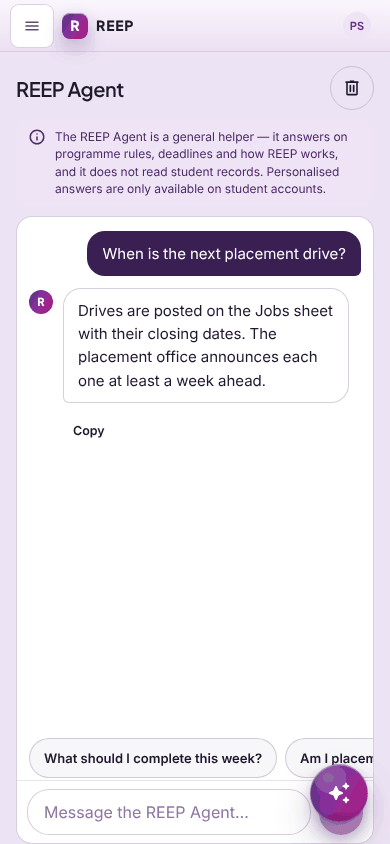
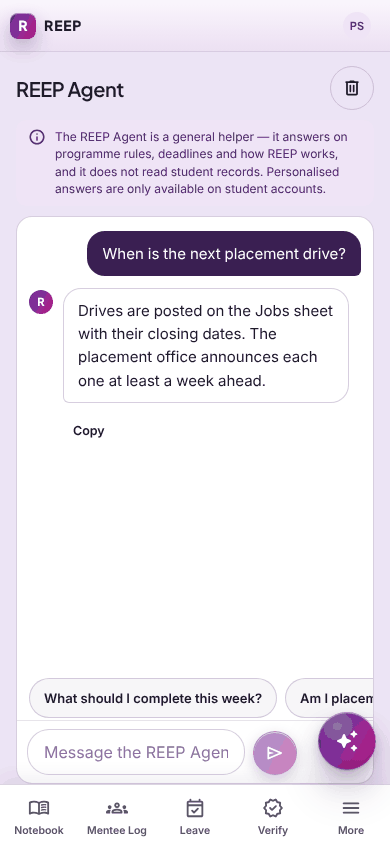
fix(mentor, agent): fit the phone layouts to the real shell
The shell's .desktop-main reserves the tab bar and the orb in its own bottom
padding, and a sticky offset is measured from inside that padding, so the
pinned action bars sit 8px above it rather than adding the tab bar height a
second time. The agent page subtracts --appbar-offset (which carries the
top safe area), and its round Send button moves out from under the orb.
Screenshots retaken against the merged shell.

Claude-Session: https://claude.ai/code/session_016q7FfoCkXSZevZLmdkNsws

Changed region(s): [[0.0, 0.8009, 1.0, 1.0], [0.0308, 0.0, 0.3385, 0.0616]]

diff --git a/apps/web/src/app/shared/agent-chat/agent-chat.component.scss b/apps/web/src/app/shared/agent-chat/agent-chat.component.scss
@@ -603,6 +603,18 @@
   .ag-send:active:not(:disabled) {
     transform: scale(0.94);
   }
+  /* On the page, the shell's floating agent orb is fixed over the right end
+     of the composer; Send moves out from under it. Not in the dock (the dock
+     covers the orb) and not while the keyboard is up (the orb is fixed to the
+     layout viewport, so it is behind the keyboard then). */
+  .ag-composer textarea::placeholder {
+    white-space: nowrap;
+    overflow: hidden;
+    text-overflow: ellipsis;
+  }
+  :host:not(.is-dock):not(.kb-open) .ag-composer {
+    padding-right: 76px;
+  }
 }
 
 /* "Enter to send" is not true where Enter is a new line (agent-chat.component

diff --git a/apps/web/src/app/features/agent/agent.component.scss b/apps/web/src/app/features/agent/agent.component.scss
@@ -178,8 +178,8 @@
 @media (max-width: 899px) {
   .agent {
     --ag-bottom: max(var(--mobile-tabbar-h, 0px), var(--kb-inset, 0px));
-    height: calc(100vh - var(--appbar-height, 52px) - var(--ag-bottom) - 14px);
-    height: calc(100dvh - var(--appbar-height, 52px) - var(--ag-bottom) - 14px);
+    height: calc(100vh - var(--appbar-offset, 52px) - var(--ag-bottom) - 14px);
+    height: calc(100dvh - var(--appbar-offset, 52px) - var(--ag-bottom) - 14px);
     min-height: 320px;
   }
   /* The crumb repeats the heading under it. */

diff --git a/apps/web/src/app/features/mentor/leave/leave.component.scss b/apps/web/src/app/features/mentor/leave/leave.component.scss
@@ -331,7 +331,9 @@
      form is on screen. Discard and the hint stay in the bar, smaller. */
   .form-actions--compose {
     position: sticky;
-    bottom: calc(var(--mobile-tabbar-h, 0px) + 8px);
+    /* 8px above the scroll area's bottom padding, which the shell sizes to
+       clear the tab bar and the agent orb — sticky offsets start there. */
+    bottom: 8px;
     z-index: 3;
     display: grid;
     grid-template-columns: 1fr 1fr;

diff --git a/apps/web/src/app/features/mentor/mentee-log/mentee-log.component.scss b/apps/web/src/app/features/mentor/mentee-log/mentee-log.component.scss
@@ -313,7 +313,9 @@
      the compose card is in view. */
   .ml-actions {
     position: sticky;
-    bottom: calc(var(--mobile-tabbar-h, 0px) + 8px);
+    /* 8px above the scroll area's bottom padding, which the shell sizes to
+       clear the tab bar and the agent orb — sticky offsets start there. */
+    bottom: 8px;
     z-index: 2;
     margin: 12px -6px 0;
     padding: 8px 6px;

diff --git a/apps/web/src/app/features/mentor/verifications/verifications.component.scss b/apps/web/src/app/features/mentor/verifications/verifications.component.scss
@@ -260,7 +260,9 @@
 
   .decide-row--claim {
     position: sticky;
-    bottom: calc(var(--mobile-tabbar-h, 0px) + 8px);
+    /* 8px above the scroll area's bottom padding, which the shell sizes to
+       clear the tab bar and the agent orb — sticky offsets start there. */
+    bottom: 8px;
     z-index: 2;
     display: grid;
     grid-template-columns: 1fr 1fr;

diff --git a/apps/web/src/app/features/mentor/notebook/mentor-notebook.component.scss b/apps/web/src/app/features/mentor/notebook/mentor-notebook.component.scss
@@ -328,7 +328,9 @@
   .nb-form__actions {
     margin-top: 4px;
     position: sticky;
-    bottom: calc(var(--mobile-tabbar-h, 0px) + 8px);
+    /* 8px above the scroll area's bottom padding, which the shell sizes to
+       clear the tab bar and the agent orb — sticky offsets start there. */
+    bottom: 8px;
     z-index: 2;
   }
   .nb-form__actions .btn {

diff --git a/docs/mobile-pwa/faculty/README.md b/docs/mobile-pwa/faculty/README.md
@@ -2,8 +2,8 @@
 
 390×844 in Chromium, `/api` stubbed with plausible data (no backend), taken
 before the phone layout work (`*-before.png`, base `2f3dfac`) and after it
-(`*-after.png`). The shell's bottom tab bar was not on the branch yet, so
-`--mobile-tabbar-h` reads as 0 in these. At 1280px every screen renders
+(`*-after.png`). The after shots include the orchestrator's phone shell
+(bottom tab bar, orb above it), merged from `ccr-30eaf725-muwz6x`. At 1280px every screen renders
 pixel-identical before and after.
 
 | Screen | Shots |
